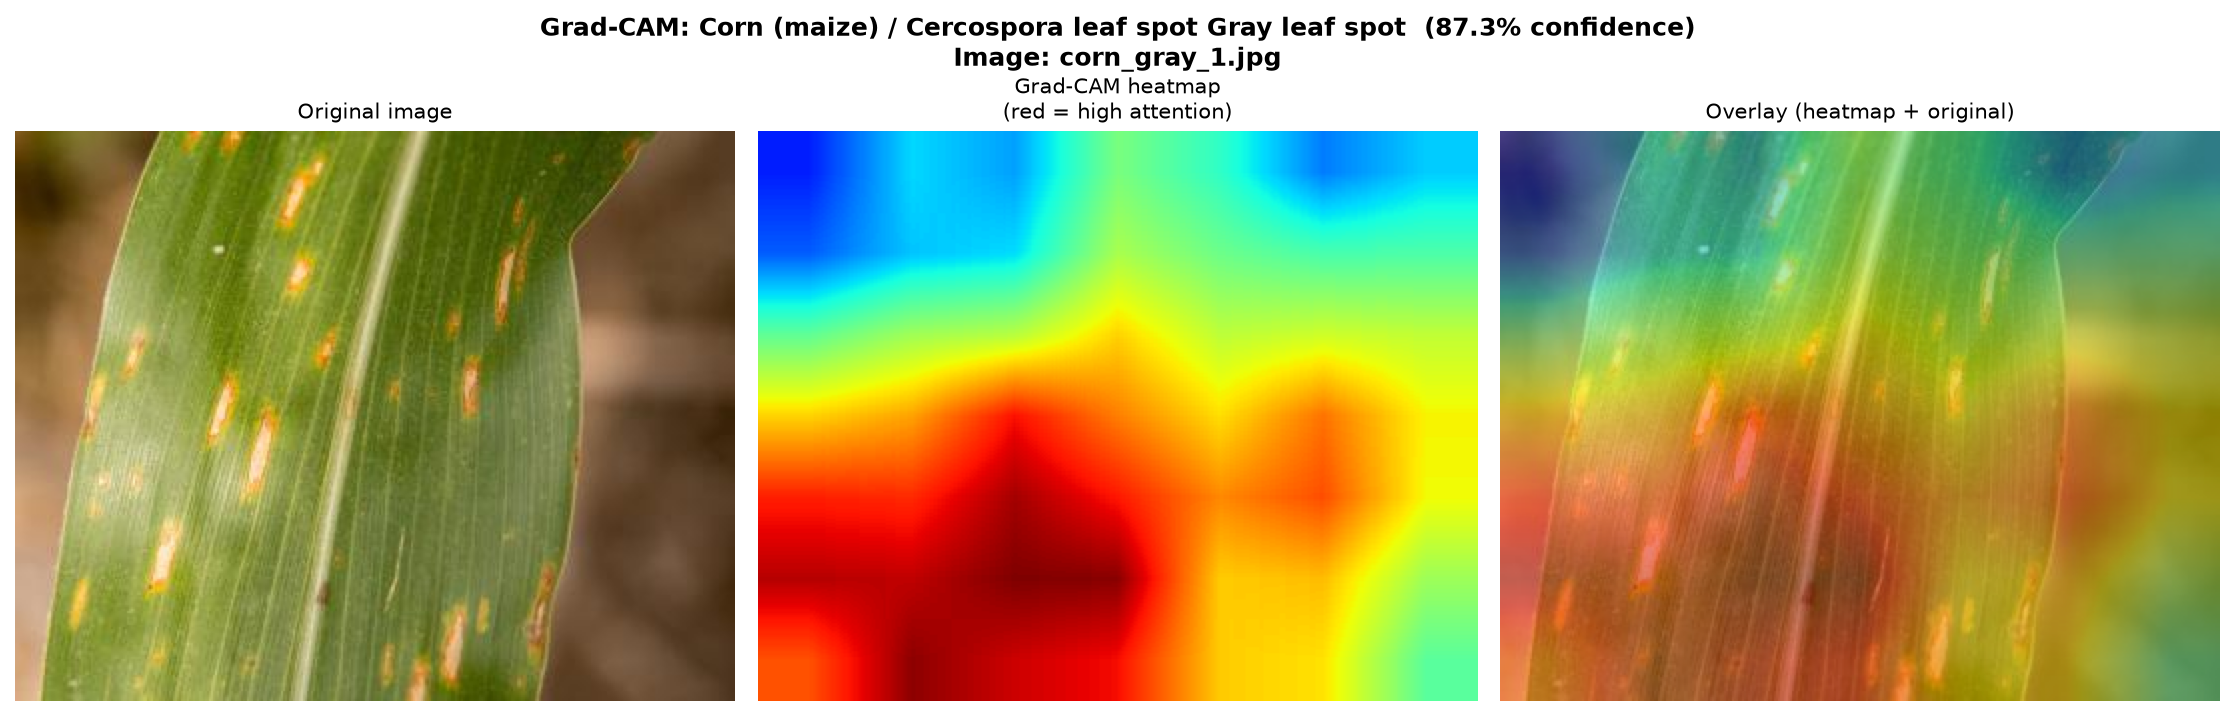
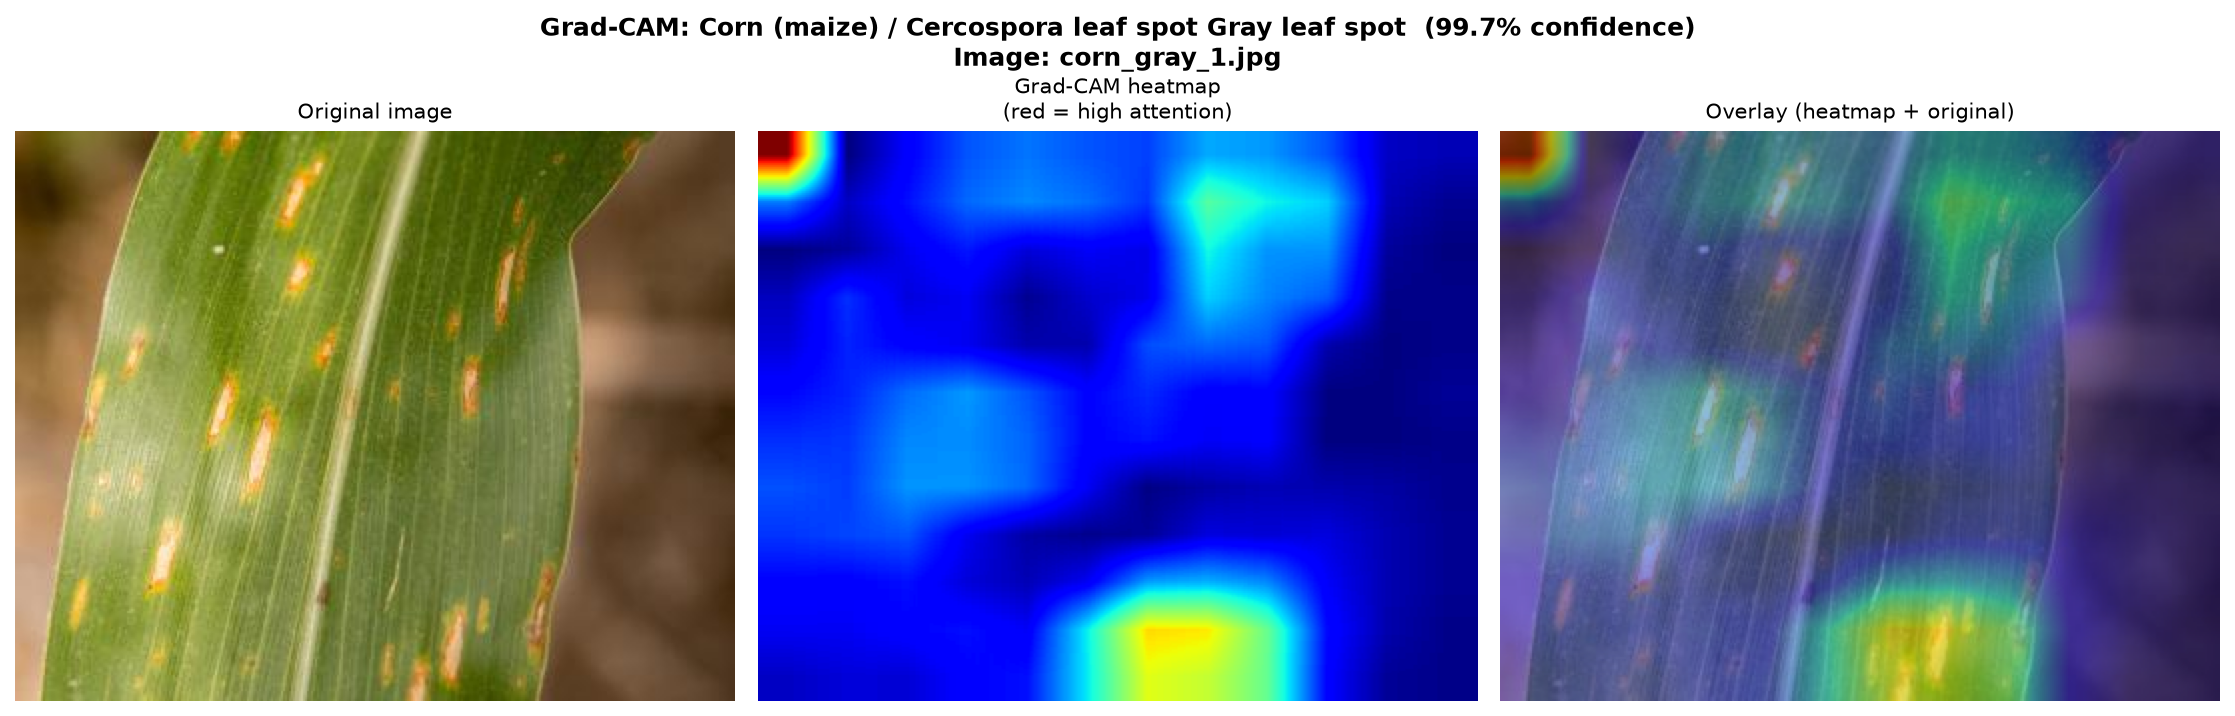
Final CNN pipeline: architecture-aware loader, v6p2 as production default
- model_loader.py: central architecture-aware checkpoint loader; v6p2 first
  in priority chain (production model); all scripts use this instead of
  hardcoded MobileNetV2 construction
- gradcam.py: updated to use model_loader; tested on real-world images with
  v6p2; corn gray leaf spot 99.75% correct with focused lesion attention
- Real-world test results with v6p2 (7 correct, 3 OOD rejected, 1 wrong):
  Potato early/late blight, Apple scab/cedar rust, Grape black rot, Tomato
  late blight, Corn gray leaf spot all correctly identified
  Tomato bacterial spot remains hardest class (documented limitation)
  OOD rejection correctly firing on uncertain/cluttered images
- v7p2 and v8p2 experiments committed; v6p2 confirmed as best production
  model (real-world performance over lab accuracy)
- evaluation_report.txt regenerated for v8p2 (96.53%) -- note: production
  model is v6p2 (95.44% PV, 70.81% PD, 63.79% PW)

diff --git a/training/gradcam.py b/training/gradcam.py
@@ -54,19 +54,8 @@ predict_transform = transforms.Compose([
 # ---------------------------------------------------------------------------
 
 def build_and_load_model():
-    model = models.mobilenet_v2(weights=None)
-    num_features = model.classifier[1].in_features
-    model.classifier[1] = nn.Linear(num_features, config.NUM_CLASSES)
-    model = model.to(config.DEVICE)
-
-    checkpoint = torch.load(config.BEST_MODEL_PATH, map_location=config.DEVICE)
-    model.load_state_dict(checkpoint["model_state_dict"])
-    class_names = checkpoint["class_names"]
-
-    # Keep in eval mode for batchnorm/dropout, but do NOT use torch.no_grad()
-    # during the forward pass -- Grad-CAM requires gradients to flow back
-    # through the network to the target layer.
-    model.eval()
+    from model_loader import load_best_model
+    model, class_names, path = load_best_model()
     return model, class_names
 
 

diff --git a/training/model_loader.py b/training/model_loader.py
@@ -55,11 +55,11 @@ def get_best_checkpoint_path():
     checking from newest to oldest.
     """
     candidates = [
-        config.V8P2_MODEL_PATH,
+        config.V6P2_MODEL_PATH, # production model -- best real-world performance
+        config.V8P2_MODEL_PATH, # EfficientNet experiment -- better lab, worse real-world
         config.V8_MODEL_PATH,
         config.V7P2_MODEL_PATH,
         config.V7_MODEL_PATH,
-        config.V6P2_MODEL_PATH,
         config.V6_MODEL_PATH,
         config.V5P2_MODEL_PATH,
         config.V4P2_MODEL_PATH,
